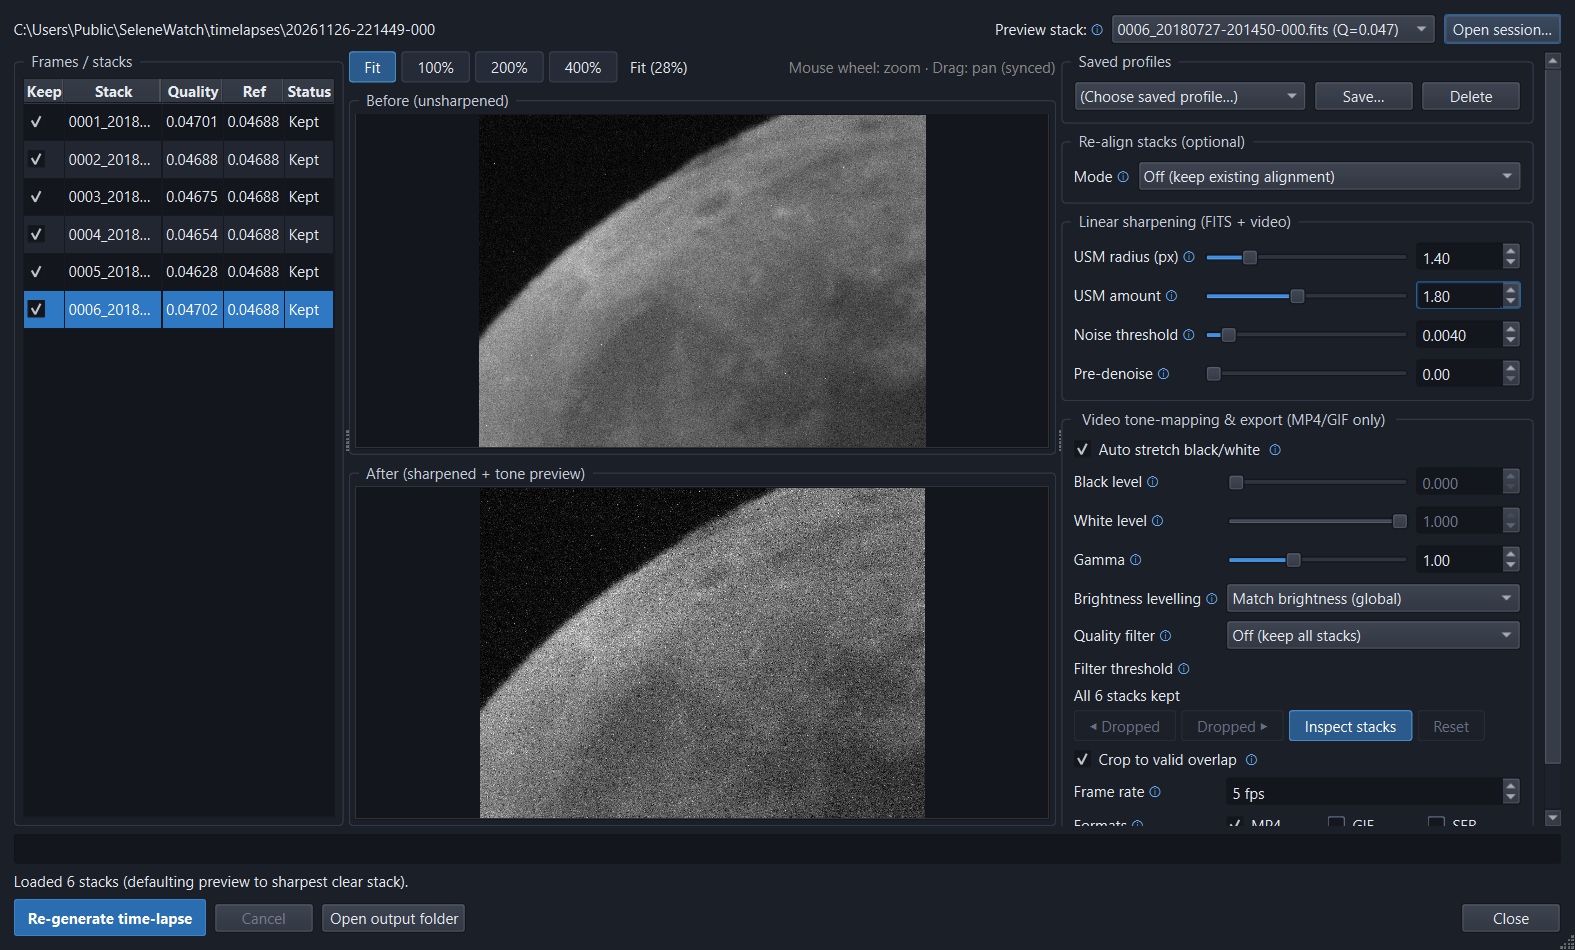
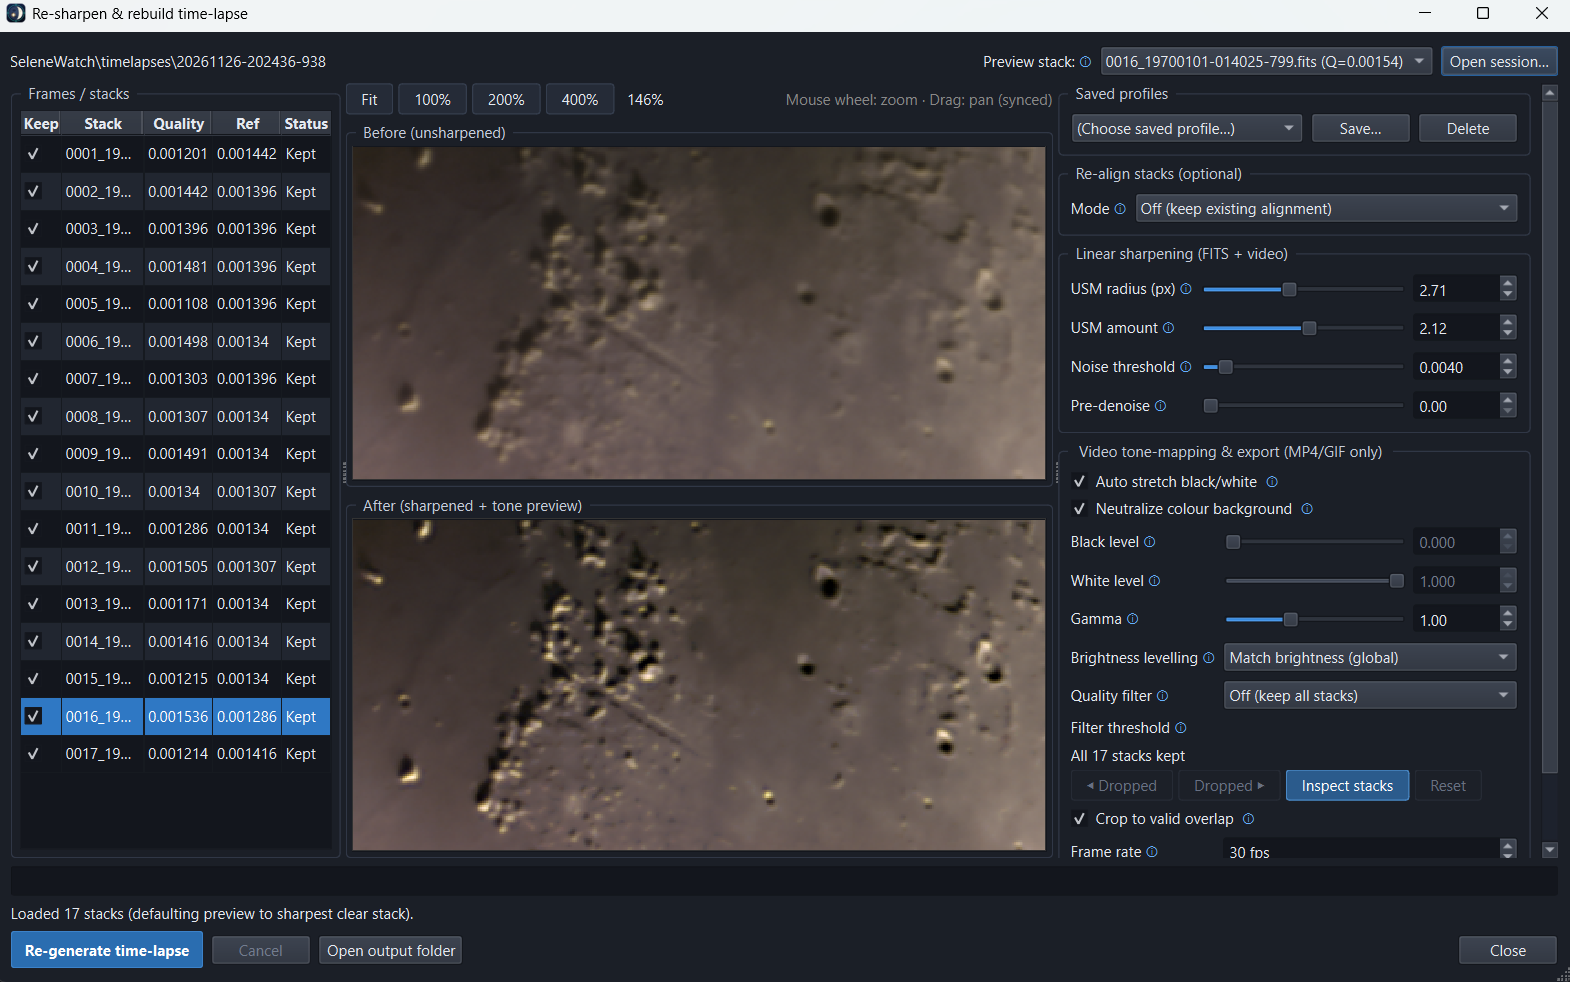
Use updated Alpine Valley Re-sharpen screenshot in README and MANUAL
Replaces docs/images/manual-resharpen.png with the new dark-theme Re-sharpen screenshot showing the Alpine Valley before/after at 146% zoom (with left-side Frames/stacks list, Neutralize colour background, and Re-generate time-lapse button; personal path prefix removed) and replaces the previous Time-lapse image in README.md with it.

Validation:
- Visually verified privacy-cleaned path label and image dimensions (1570x982).

Assisted by Gemini.

diff --git a/README.md b/README.md
@@ -62,9 +62,9 @@ Switch to **Mode: Time-lapse**, preview and frame your target, and start a sessi
 
 Every stack is kept as a 32-bit FITS file. Afterwards you can re-align (by feature box or automatic multi-point alignment), sharpen again, level brightness across thin clouds, drop blurred or cloudy stacks (by their sharpness, compared with the stacks around them), check every dropped stack, and rebuild MP4, GIF, or lossless SER without capturing again.
 
-![A stack from a Moon time-lapse](docs/images/timelapse-moon-stack.jpg)
+![Re-sharpening a lunar time-lapse in SeleneWatch](docs/images/manual-resharpen.png)
 
-*One stack of a Moon time-lapse, sharpened, from a session of 57 stacks taken a minute apart.*
+*Re-sharpening a lunar time-lapse (recorded-video test run on the Alpine Valley region): the full-height **Frames / stacks** list on the left, synchronized **Before (unsharpened)** and **After (sharpened + tone preview)** views at 146% zoom in the centre, and linear unsharp-mask, colour background neutralization, brightness levelling, and export controls on the right.*
 
 ### 3. Shadows crossing the Moon
 

diff --git a/MANUAL.md b/MANUAL.md
@@ -352,7 +352,7 @@ Shadows lengthen across craters near the terminator, Jupiter turns in ten hours,
 
 ![Re-sharpening a time-lapse](docs/images/manual-resharpen.png)
 
-*Re-sharpening: the stack before and after, with the sharpening and video settings.*
+*Re-sharpening (recorded-video test run on the Alpine Valley region): the **Frames / stacks** list on the left, synchronized **Before (unsharpened)** and **After (sharpened + tone preview)** views at 146% zoom in the centre, and the sharpening, colour background neutralization, brightness levelling, and export settings on the right.*
 
 ### Watching for transits during a Moon time-lapse
 
